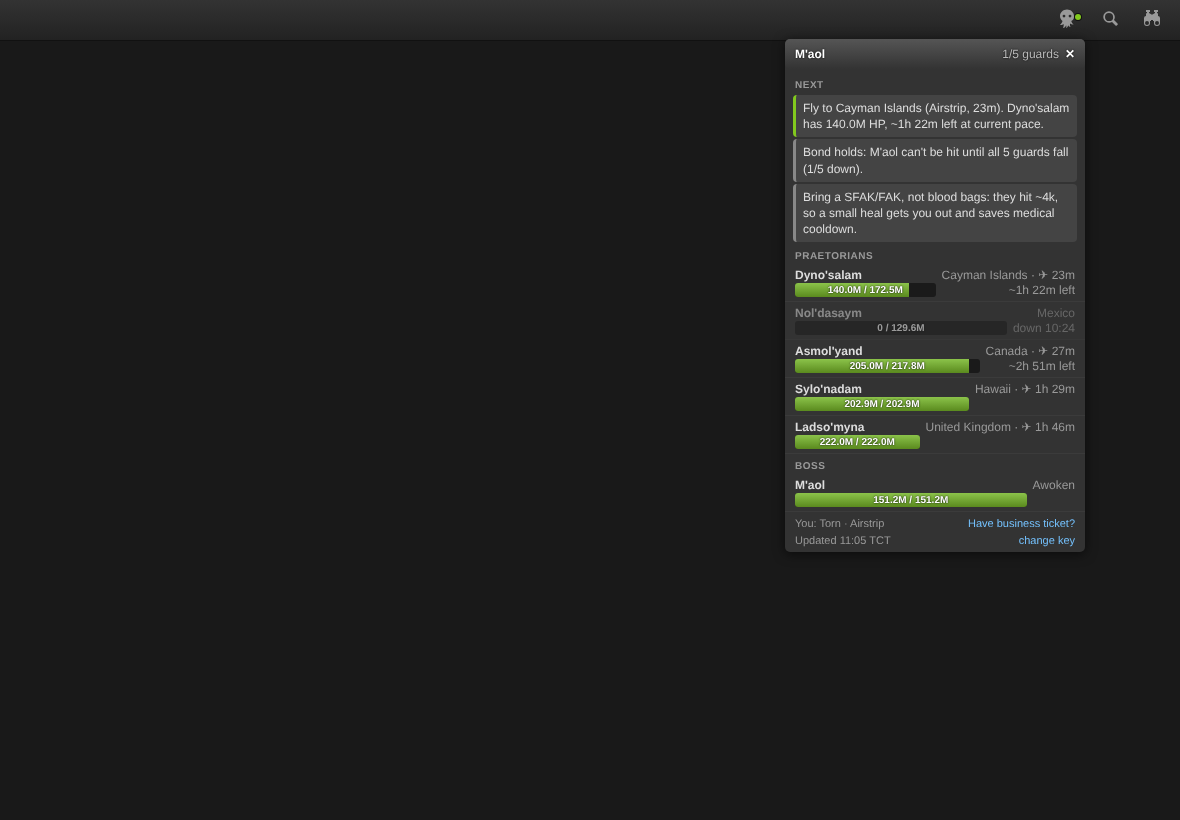
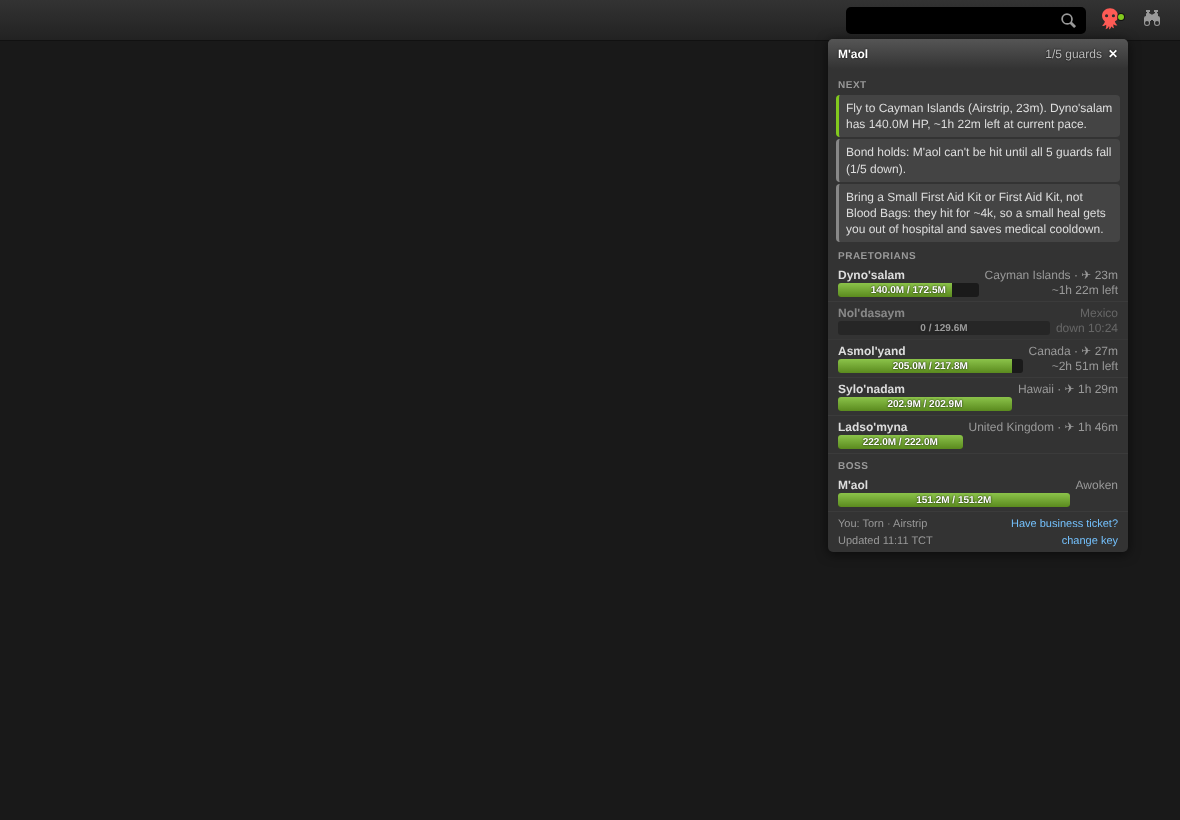
M'aol button now sits by the binoculars on desktop and turns red while M'aol is summoned

Changed region(s): [[0.6407, 0.0, 0.9763, 0.6707]]

diff --git a/Torn Maol Tracker/torn-maol-tracker.user.js b/Torn Maol Tracker/torn-maol-tracker.user.js
@@ -1,7 +1,7 @@
 // ==UserScript==
 // @name         Torn M'aol tracker
 // @namespace    kamiren.torn-maol-tracker
-// @version      1.0.5
+// @version      1.0.6
 // @description  Live M'aol and Praetorian status with flight times for your own travel perks and what to do next
 // @author       KamiRen [2805199]
 // @license      MIT
@@ -322,6 +322,8 @@
       const lvl = !D ? '' : advice().some((x) => x.c === 'go') ? 'go' : pill() === 'dormant' ? '' : 'warn';
       dot.className = `tmt-dot ${lvl}`;
       btnHost.querySelector('button').title = D ? `M'aol: ${pill()}` : "M'aol tracker";
+      // Red while M'aol is summoned (awake or his guards up), Torn's own grey when dormant.
+      btnHost.classList.toggle('tmt-live', !!D && (D.maol.state === 'Awoken' || D.guards.some((g) => g.state === 'Awoken')));
     }
   }
 
@@ -352,6 +354,18 @@
     }
   }
 
+  // Desktop shows a wide search box: sit right after it, next to the binoculars.
+  // Phone shows only a magnifier button: sit left of it.
+  function place() {
+    const find = document.querySelector('ul.toolbar > li.find-wrapper');
+    if (!find || !btnHost) return;
+    const wide = find.getBoundingClientRect().width > 80;
+    const ext = find.parentNode.querySelector(':scope > li.find-extend');
+    const before = wide && ext ? ext : find;
+    if (btnHost.nextElementSibling !== before) find.parentNode.insertBefore(btnHost, before);
+    matchNeighbour();
+  }
+
   // ------------------------------------------------------------- header button
   // Torn's header toolbar: <ul class="toolbar"><li class="find-wrapper">(search)</li>...
   // The button sits just left of the search magnifier and opens the panel as a dropdown.
@@ -368,8 +382,7 @@
       e.stopPropagation();
       UI.open = !UI.open; saveUi(); render();
     });
-    find.parentNode.insertBefore(btnHost, find);
-    matchNeighbour();
+    place();
     render();
   }
 
@@ -398,6 +411,7 @@
     s.textContent = `
       .tmt-host { position: relative; }
       .tmt-host button:hover svg { filter: brightness(1.6) !important; }
+      .tmt-host.tmt-live svg, .tmt-host.tmt-live svg path { fill: #e53935 !important; }
       .tmt-host .tmt-dot { position: absolute; top: 9px; right: 4px; width: 6px; height: 6px; border-radius: 50%; pointer-events: none; display: none;
         box-shadow: 0 0 0 1px rgba(0,0,0,.6); }
       .tmt-host .tmt-dot.go { display: block; background: var(--default-green-color, #82c91e); }
@@ -457,7 +471,7 @@
       if (UI.open && btnHost?.isConnected && !root.contains(e.target) && !btnHost.contains(e.target)) { UI.open = false; saveUi(); render(); }
     });
     document.addEventListener('keydown', (e) => { if (e.key === 'Escape' && UI.open && btnHost?.isConnected) { UI.open = false; saveUi(); render(); } });
-    window.addEventListener('resize', () => { if (UI.open) render(); });
+    window.addEventListener('resize', () => { place(); if (UI.open) render(); });
     // Torn re-renders its header on some pages: put the button back when it goes missing.
     new MutationObserver(() => { if (!btnHost || !btnHost.isConnected) mountButton(); }).observe(document.body, { childList: true, subtree: true });
     mountButton();

diff --git a/Torn Maol Tracker/greasyfork.md b/Torn Maol Tracker/greasyfork.md
@@ -6,7 +6,7 @@
 <center><small>Desktop and phone. Demo numbers.</small></center>
 <h2>What it does</h2>
 <ul>
-<li><b>Header button.</b> Left of Torn's search. Green dot: something to do now. Orange: action on, nothing reachable.</li>
+<li><b>Header button.</b> Next to the binoculars (left of the magnifier on phones), red while M'aol is summoned. Green dot: something to do now. Orange: action on, nothing reachable.</li>
 <li><b>All six NPCs.</b> Country, HP bar and time until each one falls, from the HP drop over the last 15 min.</li>
 <li><b>Your flight times.</b> Reads your airstrip, WLT and travel book perks, adds the trip home and any hospital, jail or flight time left.</li>
 <li><b>What to do next.</b> Hit now, fly to the nearest guard you can still reach, skip the ones that die before you land, then M'aol's 15-minute route.</li>

diff --git a/Torn Maol Tracker/README.md b/Torn Maol Tracker/README.md
@@ -10,7 +10,7 @@ A button in Torn's header, left of the search, opens a Torn-styled dropdown.
 <p align="center"><sub>Desktop and phone. Demo numbers, mocked API.</sub></p>
 
 ## Features
-- **Header button.** Sits left of Torn's search. Green dot: something to do now. Orange: action on, nothing reachable.
+- **Header button.** Next to the binoculars on desktop, left of the magnifier on phones. Red while M'aol is summoned. Green dot: something to do now. Orange: action on, nothing reachable.
 - **All six NPCs.** Country, HP bar and time until each one falls, from the HP drop over the last 15 min.
 - **Your flight times.** Reads your travel perks (airstrip, WLT, travel book), adds the trip home when you are abroad
   and any hospital, jail or flight you are still in. Toggle *business ticket* to see those times.
